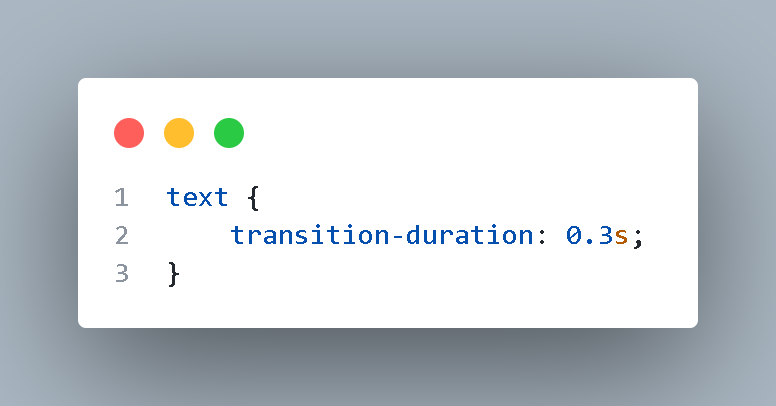
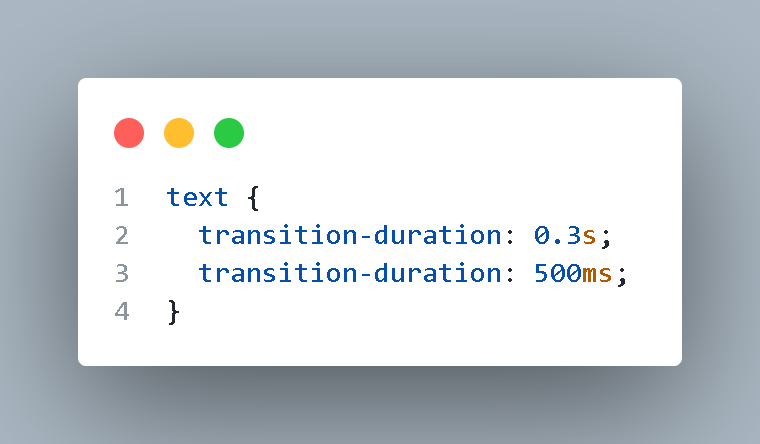
Added more text on transition page

diff --git a/transition.html b/transition.html
@@ -60,10 +60,12 @@
 
     <article>
       <h2 id="Transition-examples" class="margin-title">How can you use CSS transitions?</h2>
-      <p class="margin">To use CSS transitions, you must specify two things: the CSS property you want to add an effect
+      <p class="margin">
+        To use CSS transitions, you must specify two things: the CSS <code>property</code> you want to add an effect
         to and the
-        duration of the effect. If the duration part is not specified, the transition will have no effect because its
-        default value is 0.
+        <code>duration</code> of the effect. If the duration part is not specified, the transition will have no effect
+        because its
+        <code>default value is 0</code>.
 
         Here's an example that shows a div element with a transition on its width property:
       </p>
@@ -101,16 +103,39 @@
     <article>
       <h2 id="Transition-duration" class="margin-title">Transition duration</h2>
       <p class="margin">
-        <code>Transition-duration</code> is a CSS property that specifies the duration over which a CSS transition should occur. It
-        is usually defined in seconds (s) or milliseconds (ms).
+        <code>Transition-duration</code> is a CSS property that specifies the duration over which a CSS transition
+        should occur. This property takes a value in seconds (s) and milliseconds (ms).
       </p>
 
       <article class="bottom-line">
         <img src="svg/transition-duration.png" alt="Transition Properties" class="transition-example">
         <p>
-          Here you can see how to set transition duration to element.
+          Here you can see how we added <code>transition-duration</code> property to <code>text</code> element.
         </p>
       </article>
+    </article>
+
+    <article>
+      <h2 id="Transition-timing-function" class="margin-title">Transition timing function</h2>
+      <p class="margin">
+        The <code>transition-timing-function</code> property in CSS specifies the speed curve of an element's transition over time.
+        It determines how intermediate values are calculated for a transition between two states, such as changing the
+        color or position of an element.
+      </p>
+
+      <article class="bottom-line">
+        <img src="svg/transition-timing-function.png" alt="Transition Properties" class="transition-example">
+        <p>
+          This <code>cubic-bezier()</code> curve creates a transition effect that starts slowly, speeds up quickly, and then slows down again at the end.
+        </p>
+      </article>
+    </article>
+
+    <article>
+      <h2 id="Transition-delay" class="margin-title">Transition delay</h2>
+      <p class="margin">
+        <code>Transition-delay</code> is a CSS property that specifies the delay before a transition effect starts.
+      </p>
     </article>
   </section>
 </body>

diff --git a/css/styles.css b/css/styles.css
@@ -18,12 +18,17 @@ body {
   filter: drop-shadow(0 0 0.2rem #111);
 }
 
-.button-style {
+.button-style { 
   background-image: var(--linear-gradient);
   color: #dadfc7;
   font-weight: bold;
   text-align: center;
   border: none;
+}
+
+text {
+  transition-duration: 0.3s;
+  transition-duration: 500ms;
 }
 
 .capital {
